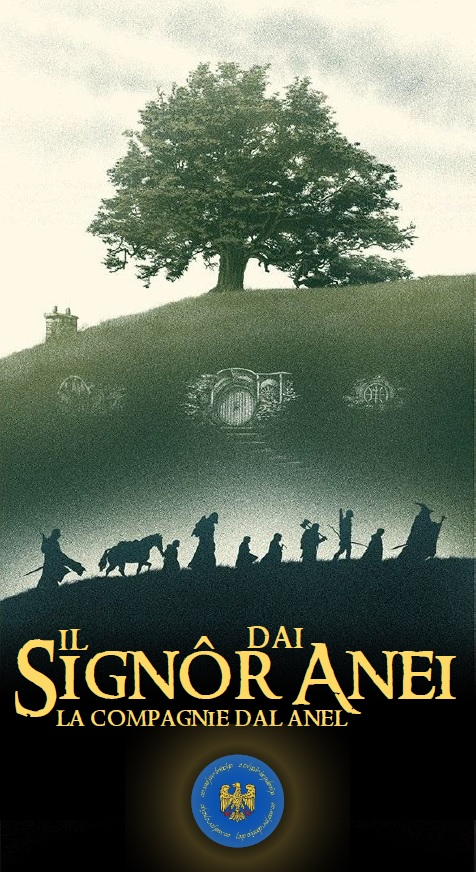
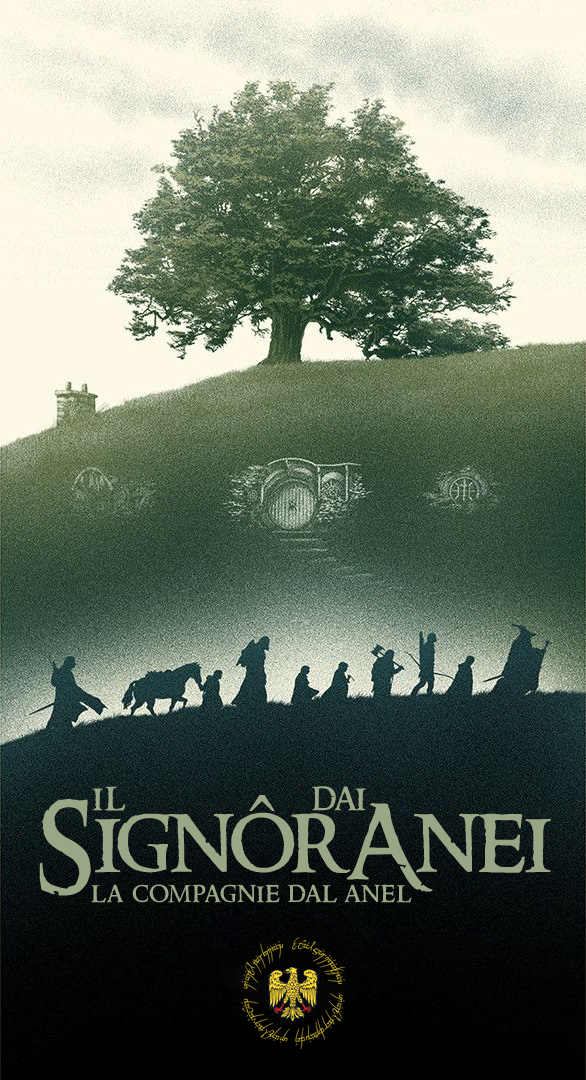
Text fixes and footer structure, removed movie image

Changed region(s): [[0.0, 0.0, 1.0, 0.7122], [0.0, 0.7122, 1.0, 1.0], [0.8824, 0.3716, 0.9412, 0.4335]]

diff --git a/home.html b/home.html
@@ -31,9 +31,9 @@
                     <ul class="navbar-nav text-uppercase ml-auto">
                         <li class="nav-item"><a class="nav-link js-scroll-trigger" href="#proget">Proget</a></li>
                         <li class="nav-item"><a class="nav-link js-scroll-trigger" href="#storie">Storie</a></li>
-                        <li class="nav-item"><a class="nav-link js-scroll-trigger" href="#grup">Cui seiso?</a></li>
+                        <li class="nav-item"><a class="nav-link js-scroll-trigger" href="#grup">cui s&ecirc;so?</a></li>
                         <li class="nav-item"><a class="nav-link js-scroll-trigger" href="#film">Film<!-- <span class="badge badge-warning">New</span>--></a></li>
-                        <li class="nav-item"><a class="nav-link js-scroll-trigger" href="#contas">Contaz</a></li>
+                        <li class="nav-item"><a class="nav-link js-scroll-trigger" href="#contas">contats</a></li>
                     </ul>
                 </div>
             </div>
@@ -42,8 +42,8 @@
         <header class="masthead">
             <div class="container">
                 <div class="masthead-heading text-uppercase">&nbsp;</div>
-                <div class="masthead-subheading mb-3">Il Signôr dai Anei</div>
-                <div class="masthead-subheading-3">La dopleadure furlane dal Signôr dai Anei </div>
+                <div class="masthead-subheading mb-3">Il Sign&ocirc;r dai Anei</div>
+                <div class="masthead-subheading-3">La dopleadure furlane dal Sign&ocirc;r dai Anei </div>
                 <div class="masthead-subheading-3 ">&nbsp;</div>
                 <a class="btn btn-primary btn-xl text-uppercase js-scroll-trigger" href="#proget">Dimi Dut</a>
                 <div class="masthead-subheading text-uppercase">&nbsp;</div>
@@ -71,26 +71,25 @@
                     <div class="col-md-4">
                         <span class="fa-stack fa-4x"><i class="fas fa-circle fa-stack-2x text-primary"></i><i class="fas fa-microphone fa-stack-1x fa-inverse"></i></span>
                         <h4 class="my-3">Dopleadure</h4>
-                        <p class="text-muted">I dopleadôrs a’ son un grup di amîs di Varian e altris paîs dongje, che a’ an decidût di cjapâ su cheste
-                            sfide e metisi in zûc. Un lavôr serio ancje se nol è fat di professioniscj, cence perfezion ma cun tante
+                        <p class="text-muted">I doplead&ocirc;rs a son un grup di am&icirc;s di Varian, Vissandon e altris pa&icirc;s dongje, che a an decid&ucirc;t di cjap&acirc; su cheste sfide e metisi in z&ucirc;c. Un lav&ocirc;r serio ancje se nol &egrave; fat di professioniscj, cence perfezion ma cun tante passion.
                             passion.</p>
                     </div>
                     <div class="col-md-4">
                         <span class="fa-stack fa-4x"><i class="fas fa-circle fa-stack-2x text-primary"></i><i class="fas fa-language fa-stack-1x fa-inverse"></i></span>
                         <h4 class="my-3">Traduzion</h4>
-                        <p class="text-muted">Par la traduzion, il nestri tradutôr uficiâl al à decidût di atignisi ae koinè furlane, che a’ si pòs cjatâ in
-                            t’un grum di libris di furlan o di vocabolaris. Chest al ûl dî che a’ vin decidût di doprâ une cierte
-                            pronunzie e une cierte grafie par fâ un lavôr il plui “universalistic” pussibil (a livel dal Friûl almancul).
-                            ‘O vin ancje doprât il passât sempliç là che al coventave, ancje se al è pôc doprât tal furlan cjacarât,
-                            propit par jessi fedei ae pelicule ma soredut par fâ un lavôr che al podedi ancje elevâ il furlan di cui
-                            che a lu fruìs.</p>
+                        <p class="text-muted">Pe traduzion, il nestri tradut&ocirc;r ufici&acirc;l al &agrave; decid&ucirc;t di atignisi ae koin&egrave; furlane, 
+                            che a si pues cjat&acirc; ancje sul s&icirc;t de Arlef. Chest al v&ucirc;l d&icirc; che o vin decid&ucirc;t di dopr&acirc; 
+                            une cierte pronunzie e une cierte grafie par f&acirc; un lav&ocirc;r il plui “universalistic” pussibil (a livel dal Fri&ucirc;l 
+                            almancul). O vin ancje dopr&acirc;t il pass&acirc;t sempliç l&agrave; che al coventave, ancje se al &egrave; p&ocirc;c dopr&acirc;t 
+                            tal furlan cjacar&acirc;t, propit par jessi fedei ae pelicule ma soredut par f&acirc; un lav&ocirc;r che al puedi ancje elev&acirc; 
+                            il furlan di cui che a lu fru&igrave;s.</p>
                     </div>
                     <div class="col-md-4">
                         <span class="fa-stack fa-4x"><i class="fas fa-circle fa-stack-2x text-primary"></i><i class="fas fa-video fa-stack-1x fa-inverse"></i></span>
                         <h4 class="my-3">Film</h4>
-                        <p class="text-muted">Parcè propite cheste pelicule? Parcè che une des robis che nus unìs ‘e je la passion par l’opare di
-                            Tolkien, puartade in pelicule dal lavôr di Peter Jackson. Ma soredut, lu vin fat parcè che ‘o sin convinz
-                            che Gimli, te version originâl de opare, al jere furlan.</p>
+                        <p class="text-muted">Parc&egrave; propit cheste pelicule? Parc&egrave; che une des robis che nus ten dongje e 
+                            je la passion par l’opare di J.R.R. Tolkien, puartade al cine dal lav&ocirc;r di Peter Jackson. Ma soredut, 
+                            lu vin fat parc&egrave; che o sin convints che Gimli, te version origin&acirc;l de opare, al jere furlan.</p>
                     </div>
                 </div>
             </div>
@@ -114,13 +113,16 @@
                                 <div class="timeline-heading">
                                     <h4 class="subheading">L'idee</h4>
                                 </div>
-                                <div class="timeline-body"><p class="text-muted">Un messaç tra amîs t’un grup whatsapp: “Veiso mai fat câs che la Contee e je come il Friûl? I hobbit
-                                    a’ fasin fieste tirant su tendons e fasint cjoche, daspò a’ tirin i fûcs; i hobbit a’ girin discjampinele e a’
-                                    son contadins e alevadôrs; i nons dai hobbit a’ son storpiaduris di nons furlans: Deagol/Bigul,
-                                    Pipino/Pipinot, Merry/Marie ecc; se tu vâs fûr de Contee, a’ ti dan par muart”.
-                                    Nancje timp di rindisi cont e in tre di nô ‘o sin finîs a fevelâ di ce figade c’a sarès vignude fûr. Il dì
-                                    dopo un al veve scomençât a dopleâ tocs de pelicule par fâ viodi ai amîs che il risutât al podeve jessi
-                                    bon. Tal gîr di dôs setemanis il trailer al jere pront, inviât atôr par domandâ ae int di partecipâ.</p></div>
+                                <div class="timeline-body"><p class="text-muted">Un messaç tra am&icirc;s t’un grup whatsapp: “V&ecirc;so 
+                                    mai fat c&acirc;s che la Contee e je come il Fri&ucirc;l? I hobbit a fasin fieste tirant su tendons e 
+                                    fasint cjoche, daspò a tirin i f&ucirc;cs; i hobbit a girin discjampinele e a son contadins e 
+                                    alevad&ocirc;rs; i nons dai hobbit a son storpiaduris di nons furlans: Deagol/Bigul, Pipino/Pipinot, 
+                                    Merry/Marie ecc; se tu v&acirc;s f&ucirc;r de Contee, a ti dan par muart”. Nancje timp di rindisi 
+                                    cont e in tre di n&ocirc; o sin fin&icirc;ts a fevel&acirc; di ce robe maraveose che e sar&egrave;s 
+                                    vignude f&ucirc;r. Il d&igrave; dopo un al veve scomenç&acirc;t a dople&acirc; tocs de pelicule par 
+                                    f&acirc; viodi ai am&icirc;s che il risult&acirc;t al podeve jessi bon. Tal g&icirc;r di d&ocirc;s 
+                                    setemanis il trailer al jere pront, invi&acirc;t at&ocirc;r par domand&acirc; ai altris am&icirc;s di 
+                                    partecip&acirc;.</p></div>
                             </div>
                         </div>
                     </li>
@@ -135,13 +137,16 @@
                                     <h4 class="subheading">L'inizi</h4>
                                 </div>
                                 <div class="timeline-body">
-                                    <p class="text-muted">Il 1 di giugn il sito internet al è stât metût online e a’ son partidis lis regjistrazions uficialis.</p>
+                                    <p class="text-muted">Il 1 di giugn il s&icirc;t internet al &egrave; st&acirc;t met&ucirc;t online e 
+                                        a son partidis lis primis regjistrazions.</p>
                                 </div>
                                 <div class="timeline-heading">
                                     <h4 class="subheading">Il Prin Travuart</h4>
                                 </div>
                                 <div class="timeline-body">
-                                    <p class="text-muted">Il 18 di giugn a son stadis puartadis a compiment lis regjistrazions dai prins 40 min&ucirc;z, che a formin la prime <i>"piere mili&acirc;r"</i> des 5 c'o vin fat par dividi il lav&ocirc;r.</p>
+                                    <p class="text-muted">Il 18 di giugn a son stadis puartadis a compiment lis regjistrazions dai prins 
+                                        40 min&ucirc;ts, che a formin la prime "piere mili&acirc;r" des 5 che o vin fat par dividi il 
+                                        lav&ocirc;r. La setemane dopo cheste part e jere montade.</p>
                                 </div>
                             </div>
                         </div>
@@ -161,8 +166,7 @@
                         <div class="grup-member">
                             <img class="mx-auto rounded-circle" src="" alt="" />
                             <h4>Francesco</h4>
-                            <p class="text-muted">Al à voltât par furlan il copion e preparât i tescj pal sito internet (si, ‘o soi jo c’o stoi scrivint). Al
-                                doplee Gandalf e Saruman.</p>
+                            <p class="text-muted">Al &agrave; volt&acirc;t par furlan il copion e prepar&acirc;t i tescj pal sito internet (si, o soi jo che o stoi scrivint). Al doplee Gandalf e Saruman.</p>
                             <!-- <a class="btn btn-dark btn-social mx-2" href="#!"><i class="fab fa-twitter"></i></a><a class="btn btn-dark btn-social mx-2" href="#!"><i class="fab fa-facebook-f"></i></a><a class="btn btn-dark btn-social mx-2" href="#!"><i class="fab fa-linkedin-in"></i></a> -->
                         </div>
                     </div>
@@ -170,7 +174,7 @@
                         <div class="grup-member">
                             <img class="mx-auto rounded-circle" src="" alt="" />
                             <h4>Luca</h4>
-                            <p class="text-muted">Al sta daûr ae part audio dal lavôr e al met a puest une vore di berdeis. Al doplee Aragorn e Gimli.</p>
+                            <p class="text-muted">Al sta da&ucirc;r ae part audio dal lav&ocirc;r e al met a puest une vore di berdeis. Al doplee Aragorn e Gimli.</p>
                             <!-- <a class="btn btn-dark btn-social mx-2" href="#!"><i class="fab fa-twitter"></i></a><a class="btn btn-dark btn-social mx-2" href="#!"><i class="fab fa-facebook-f"></i></a><a class="btn btn-dark btn-social mx-2" href="#!"><i class="fab fa-linkedin-in"></i></a> -->
                         </div>
                     </div>
@@ -178,7 +182,7 @@
                         <div class="grup-member">
                             <img class="mx-auto rounded-circle" src="" alt="" />
                             <h4>Emanuele</h4>
-                            <p class="text-muted">Al puarte a compiment il lavôr montant il risultât finâl. Al doplee Frodo.</p>
+                            <p class="text-muted">Al puarte a compiment il lav&ocirc;r montant il risult&acirc;t fin&acirc;l. Al doplee Frodo.</p>
                             <!-- <a class="btn btn-dark btn-social mx-2" href="#!"><i class="fab fa-twitter"></i></a><a class="btn btn-dark btn-social mx-2" href="#!"><i class="fab fa-facebook-f"></i></a><a class="btn btn-dark btn-social mx-2" href="#!"><i class="fab fa-linkedin-in"></i></a> -->
                         </div>
                     </div>
@@ -186,9 +190,9 @@
                 <div class="row">
                     <div class="col-lg-4 border-right offset-lg-2">
                         <div class="grup-member">
-                            <img class="mx-auto rounded-circle" src="" alt="" />
+                            <img class="mx-auto rounded-circle" alt="" />
                             <h4>Loris</h4>
-                            <p class="text-muted">Al mate&ecirc; e gestis il sito internet e dutis lis figadis da&ucirc;r. Al doplee Bilbo.</p>
+                            <p class="text-muted">Al matee e al gestis il s&icirc;t internet e dutis lis robis che a stan da&ucirc;r di chest. Al doplee Bilbo.</p>
                             <!-- <a class="btn btn-dark btn-social mx-2" href="#!"><i class="fab fa-twitter"></i></a><a class="btn btn-dark btn-social mx-2" href="#!"><i class="fab fa-facebook-f"></i></a><a class="btn btn-dark btn-social mx-2" href="#!"><i class="fab fa-linkedin-in"></i></a> -->
                         </div>
                     </div>
@@ -218,14 +222,6 @@
                         <div class="row mb-3">
                             <div class="col-md-12 text-center">
                                 <div class="masthead-subheading-3">La Compagnie dal Anel</div>
-                            </div>
-                        </div>
-                        <div class="row justify-content-md-center mb-3">
-                            <div class="col-sm-3">
-                                <div class="image shadow">
-                                    <a href="https://it.wikipedia.org/wiki/Il_Signore_degli_Anelli_-_La_Compagnia_dell%27Anello"><img class="img-thumbnail rounded" src="images/playbill.jpg" title="Wikipedia - La Compagnia dell'Anello"></a>
-                                </div>
-                                <footer class="blockquote-footer text-center pt-2">Modific&acirc;de di <cite title="Source Title">Cecilia</cite></footer>
                             </div>
                         </div>
                         <div class="row justify-content-md-center mb-3">
@@ -310,71 +306,35 @@
                 </div>
             </div>
         </section>
-        <!-- Contas-->
-        <section class="page-section bg-light" id="contas">
-            <div class="container">
-                <div class="text-center">
-                    <h2 class="section-heading text-uppercase">Contaz</h2>
-                    <h3 class="section-subheading text-muted"></h3>
-                </div>                
-                <div class="text-center">
-                    <h4> Contatinus a </h4>
-                    <a class="nav-link" href="mailto:ilsignordaianei@gmail.com">  ilsignordaianei@gmail.com </a>
-                </div>
-            
-                
-                <!--       
-                <form id="contasForm" name="sentMessage" novalidate="novalidate">
-                    <div class="row align-items-stretch mb-5">
-                        
-                        <div class="col-md-6 text-center">
-                                <div class="form-group">
-                                    <input class="form-control" id="name" type="text" placeholder="Your Name *" required="required" data-validation-required-message="Please enter your name." />
-                                    <p class="help-block text-danger"></p>
-                                </div>
-                                <div class="form-group">
-                                    <input class="form-control" id="email" type="email" placeholder="Your Email *" required="required" data-validation-required-message="Please enter your email address." />
-                                    <p class="help-block text-danger"></p>
-                                </div>
-                                <div class="form-group mb-md-0">
-                                    <input class="form-control" id="phone" type="tel" placeholder="Your Phone *" required="required" data-validation-required-message="Please enter your phone number." />
-                                    <p class="help-block text-danger"></p>
-                                </div>
-                        </div>
-                        
-                        <div class="col-md-6">
-                            <div class="form-group form-group-textarea mb-md-0">
-                                <textarea class="form-control" id="message" placeholder="Your Message *" required="required" data-validation-required-message="Please enter a message."></textarea>
-                                <p class="help-block text-danger"></p>
-                            </div>
-                        </div>
-                    </div>
-                    <div class="text-center">
-                        <div id="success"></div>
-                        <button class="btn btn-primary btn-xl text-uppercase" id="sendMessageButton" type="submit">Send Message</button>
-                    </div>
-                    -->
-                </form>
-            </div>
-            
-
-        </section>
         <!-- Footer-->
         <footer class="footer py-4">
-            <div class="container">
-                <div class="text-center">
-                    <br />
-                    <h3 class="section-subheading text-uppercase"> MANDI MANDI </h3>
-                    <br />
-
+            <section class="page-section bg-white py-1" id="contas">
+                <div class="container-fluid">
+                    <div class="text-center">
+                        <!--<h2 class="section-heading text-uppercase">Contats</h2>-->
+                        <h3 class="section-subheading text-muted"></h3>
+                    </div>                
+                    <div class="text-center">
+                        <h4> Contatinus a </h4>
+                        <a class="nav-link" href="mailto:ilsignordaianei@gmail.com"><i class="far fa-envelope"></i> ilsignordaianei@gmail.com <i class="far fa-envelope"></i></a>
+                    </div>
                 </div>
-                <div class="row align-items-center">
-                    <div class="col-lg-4 text-lg-left">Copyright ©IlSignorDaiAnei 2020</div>
+            </section>
+            <div class="container">
+                <!-- Contas-->
+                <div class="text-center">
+                    <!--<br />
+                    <h3 class="section-subheading text-uppercase"> MANDI MANDI </h3>
+                    <br />-->
+                </div>
+                <div class="row align-items-center pt-4">
+                    <div class="col-lg-4 text-lg-left">IlSignorDaiAnei 2020</div>
                     <div class="col-lg-4 my-3 my-lg-0">
-                        <a class="btn btn-dark btn-social mx-2" href="#!"><i class="fab fa-twitter"></i></a>
+                        <!--<a class="btn btn-dark btn-social mx-2" href="#!"><i class="fab fa-twitter"></i></a>
                         <a class="btn btn-dark btn-social mx-2" href="#!"><i class="fab fa-facebook-f"></i>
-                        </a><a class="btn btn-dark btn-social mx-2" href="#!"><i class="fab fa-linkedin-in"></i></a>
-                        </a><a class="btn btn-dark btn-social mx-2" href="https://www.instagram.com/il_signor_dai_anei/"><i class="fab fa-instagram"></i></a>
+                        </a><a class="btn btn-dark btn-social mx-2" href="#!"><i class="fab fa-linkedin-in"></i></a>-->
+                        <a class="btn btn-dark btn-social mx-2" href="https://www.instagram.com/il_signor_dai_anei/"><i class="fab fa-instagram"></i></a>
+                        <a class="btn btn-dark btn-social xm-2" href="https://t.me/joinchat/AAAAAEXyJxc0DKIr90yfPg"><i class="fab fa-telegram-plane"></i></a>
                     </div>
                     <div class="col-lg-4 text-lg-right"><a class="mr-3" href="#!">Powered by Bar-Tut</a></div>
                 </div>
